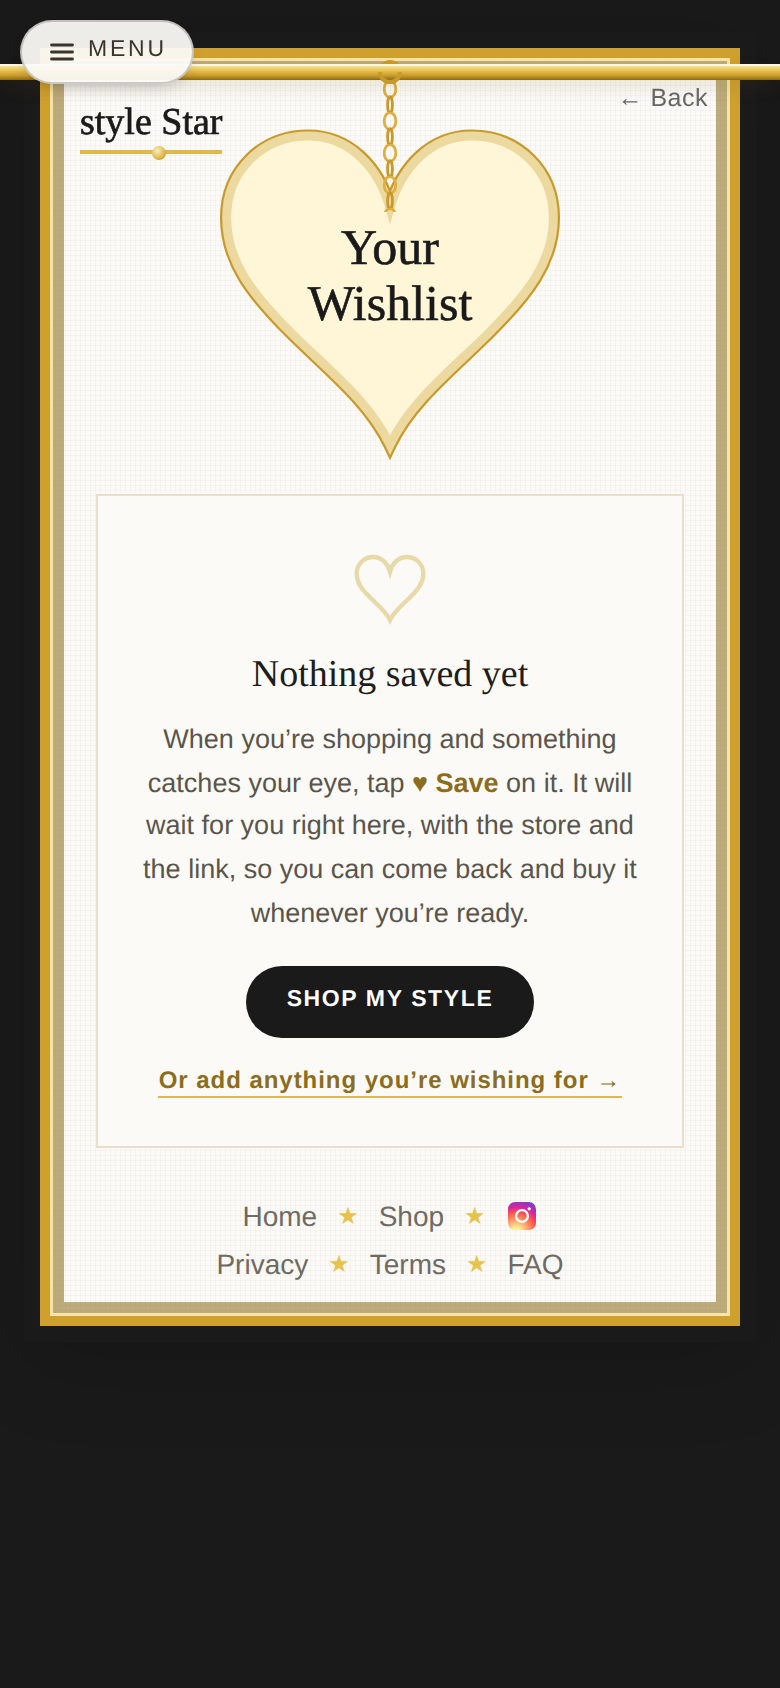
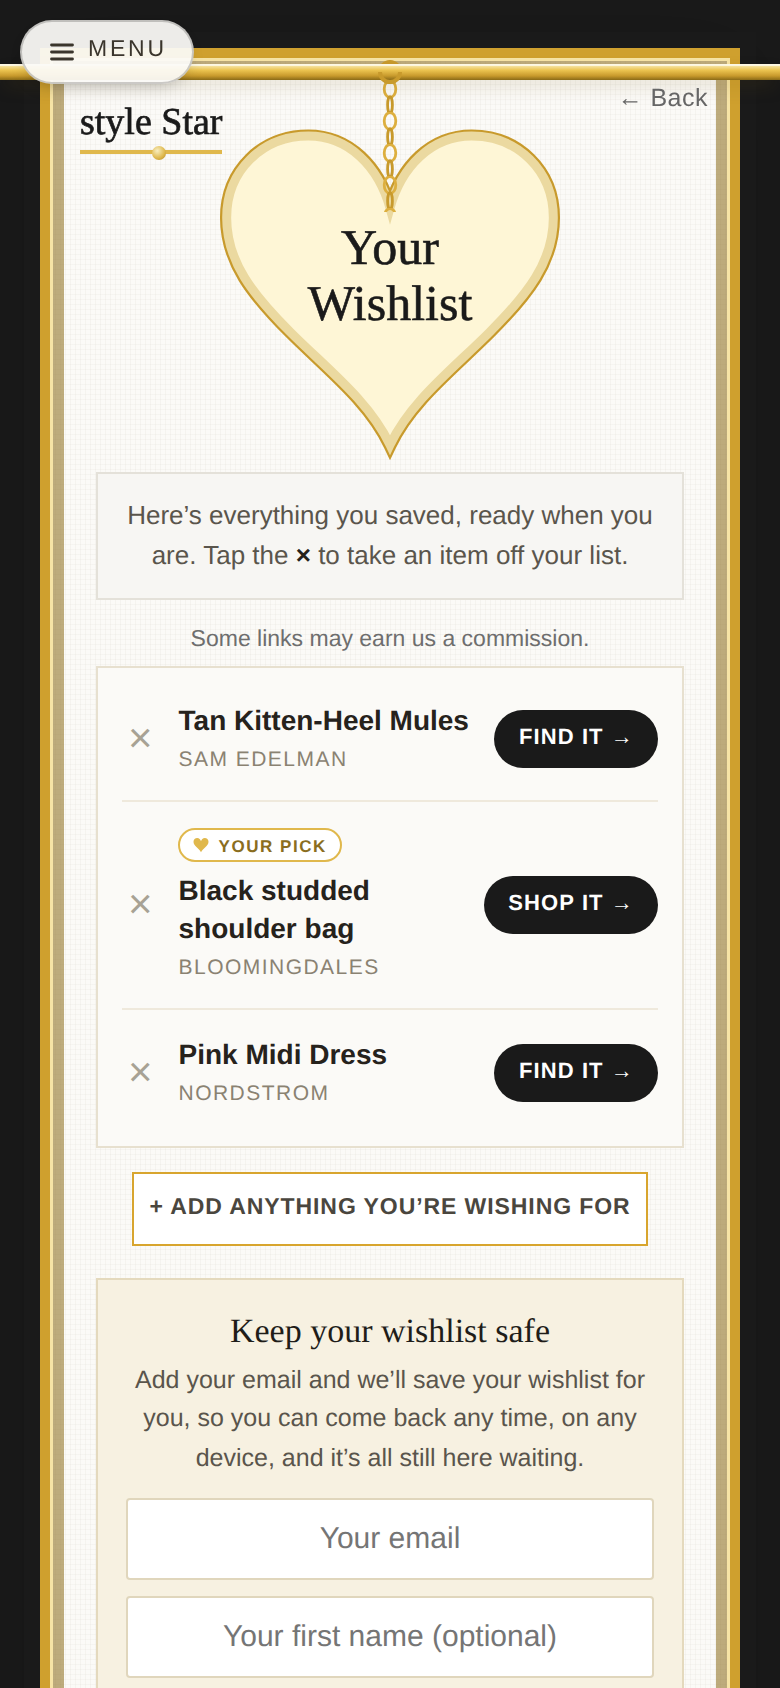
The rod rides the scroll with its hanging heart + My Story border thickened (#795)
Her catch on the viewport-fixed rod: it stayed put while the page scrolled,
detaching visually from the heart that hangs on it. "They need to slide
together." Fixed positioning still handles the WIDTH (the only edge-to-edge
that survives iOS page zoom); a passive scroll listener (_wlRodScroll) now
translates the rod by -scrollY so it moves exactly like page content. Raw
scrollY, no clamp, so iOS rubber-banding keeps rod and chain glued too.

My Story: the turquoise frame is slightly thicker, 4px -> 6px (her ask).

wladd grows 96 -> 102: rod-rides-the-scroll (moved by exactly scrollY, with a
reallyScrolled guard - an unscrollable page passes the delta check vacuously),
chain still meets the rod mid-scroll, rod restored at rest, both widths.
Verified: wladd 102/102, proof harness scratchpad/storyrodfinal.js extended
with the ride check + a properly seeded (scrollable) list.

Claude-Session: https://claude.ai/code/session_016L23CfkCzWBThRfBBj9SQc

Changed region(s): [[0.0308, 0.7085, 0.9538, 1.0], [0.1538, 0.2773, 0.8615, 0.6777], [0.1231, 0.3697, 0.1538, 0.4005]]

diff --git a/index.html b/index.html
@@ -106,7 +106,7 @@ input[type=range]::-moz-range-thumb{width:30px;height:30px;border-radius:50%;bac
    card — the white and pink inset rings are gone ("no white line") — and the
    page behind it bleeds her signature pink (html.story-velvet). The card
    scrolls with the words, so the frame can never sit on top of them. */
-.ss.story-mirror{position:relative;border-radius:0;border:4px solid #0FA6B6;background:#fff;
+.ss.story-mirror{position:relative;border-radius:0;border:6px solid #0FA6B6;background:#fff;
   box-shadow:0 8px 34px rgba(0,0,0,.16)}
 /* Shop your style: her personal boutique storefront — black store window with a
    slight beveled inner edge, on the Mall's brick wall (body.shop-brick) */
@@ -677,8 +677,9 @@ html.story-velvet,html.story-velvet body{background:#F49AC1}
 #s-wishlist{position:relative;padding-top:24px}
 /* The rod is FIXED to the viewport: left/right 0 of the screen itself, so it
    is edge-to-edge on any device and any zoom (vw units and overhang-clipping
-   both failed on her phone — this cannot). It sits where the screen top sat;
-   scrolling, the chain slides beneath it like feeding over the rail. */
+   both failed on her phone — this cannot). Fixed left/right handles WIDTH
+   only: _wlRodScroll translates it by -scrollY so it rides the page and the
+   hanging heart stays on its rod (her call — they slide together). */
 #s-wishlist .wl-rod{position:fixed;top:32px;left:0;right:0;height:8px;z-index:6;background:linear-gradient(180deg,#FBF1C2 0%,#EAC24E 40%,#C89A2C 74%,#8a6a17 100%);box-shadow:0 4px 9px -3px rgba(120,90,20,.5),inset 0 1px 0 rgba(255,255,255,.6)}
 #s-wishlist .wl-mast{position:absolute;top:20px;left:-8px;z-index:6;font:400 19px/1 'DM Serif Display',Georgia,serif;color:#1a1a1a;-webkit-text-stroke:.35px #1a1a1a;padding-bottom:7px;display:inline-block;cursor:pointer}
 #s-wishlist .wl-mast::after{content:"";position:absolute;left:0;right:0;bottom:1px;height:2px;background:#E0B84C}
@@ -7034,6 +7035,13 @@ function wlAddSubmit(){
   _wlToast();
   _wlSyncServer();
 }
+// The rod is position:fixed for its WIDTH (the only edge-to-edge that survives
+// iOS page zoom), but the heart HANGS on it, so it must ride the page scroll
+// with the chain (her call: "they need to slide together"). Translating by
+// -scrollY makes the fixed rod move exactly like page content. Raw scrollY,
+// no clamp, so iOS rubber-banding keeps rod and chain glued too.
+function _wlRodScroll(){var r=document.querySelector('#s-wishlist .wl-rod');if(r)r.style.transform='translateY('+(-window.scrollY)+'px)';}
+window.addEventListener('scroll',_wlRodScroll,{passive:true});
 function openWishlist(){
   var cur=document.querySelector('.scr.act');
   // Tapping "View" from the toast while already on the list must not make Back
@@ -7044,6 +7052,7 @@ function openWishlist(){
   show('s-wishlist');
   renderWishlist();
   try{window.scrollTo(0,0)}catch(e){}
+  _wlRodScroll();   // belt-and-braces: rod starts exactly on its rest position
 }
 function closeWishlist(){show(wishlistPrevScreen||'s-wb');}
 function wardrobeTab(which){

diff --git a/scratchpad/storyrodfinal.js b/scratchpad/storyrodfinal.js
@@ -30,8 +30,9 @@ const server = http.createServer((req, res) => {
     if (!localStorage.getItem('__seeded')) {
       localStorage.setItem('__seeded', '1');
       localStorage.setItem('ss_wardrobe', JSON.stringify({ pretap0: true, items: {}, wishlist: [
-        { id: 'tan~sandals', n: 'Tan Kitten-Heel Mules', s: 'Sam Edelman', q: 'tan kitten heel mules' },
-        { id: 'own~valentino', n: 'Black studded shoulder bag', s: 'Bloomingdales', own: true, url: 'https://www.bloomingdales.com/shop/product/valentino-bag?ID=123' }
+        { id: 'tan-kitten-heel-mules~sam-edelman', name: 'Tan Kitten-Heel Mules', store: 'Sam Edelman', search: 'tan kitten heel mules', ts: 1 },
+        { id: 'black-studded-shoulder-bag~bloomingdales', name: 'Black studded shoulder bag', store: 'Bloomingdales', search: '', ts: 2, own: true, url: 'https://www.bloomingdales.com/shop/product/valentino-bag?ID=123' },
+        { id: 'pink-midi-dress~nordstrom', name: 'Pink Midi Dress', store: 'Nordstrom', search: 'pink midi dress', ts: 3 }
       ] }));
     }
   });
@@ -80,6 +81,17 @@ const server = http.createServer((req, res) => {
   const ok = rod.rodLeft === 0 && rod.rodRight === 0 && rod.pos === 'fixed' && rod.chainTop <= rod.rodBottom + 3;
   console.log(ok ? 'ROD GEOMETRY OK (edge-to-edge, chain meets rod)' : 'ROD GEOMETRY FAIL');
   await page.screenshot({ path: path.join(__dirname, 'rodfix-top.png') });
+  // the rod rides the scroll with the chain (her call)
+  const ride = await page.evaluate(async () => {
+    const r = document.querySelector('#s-wishlist .wl-rod');
+    const c = document.querySelector('.wl-chain');
+    const b = r.getBoundingClientRect().bottom;
+    window.scrollTo(0, 300); await new Promise(x => setTimeout(x, 200));
+    const m = { rod: r.getBoundingClientRect().bottom, chain: c.getBoundingClientRect().top, y: scrollY };
+    return { moved: Math.abs((b - m.rod) - m.y) <= 1, meets: Math.abs(m.chain - m.rod) <= 3, scrolled: m.y >= 100 };
+  });
+  console.log('ROD RIDES SCROLL:', JSON.stringify(ride));
+  await page.screenshot({ path: path.join(__dirname, 'rodfix-scrolled.png') });
 
   await browser.close();
   server.close();

diff --git a/scratchpad/wladd.js b/scratchpad/wladd.js
@@ -347,6 +347,26 @@ for (const w of [390, 360]) {
   }));
   ok(w + ': velvet bleeds full-bleed black on this page', frame.velvet && frame.velvetClass);
   ok(w + ': the gold rail band frames the paper', frame.band);
+  // The rod RIDES the scroll (her call: the heart hangs on it, they slide
+  // together) — fixed position handles width only; _wlRodScroll moves it.
+  const ride = await page.evaluate(async () => {
+    const rod = document.querySelector('#s-wishlist .wl-rod');
+    const chain = document.querySelector('#s-wishlist .wl-chain');
+    const before = { rod: rod.getBoundingClientRect().bottom, chain: chain.getBoundingClientRect().top };
+    window.scrollTo(0, 300);
+    await new Promise(r => setTimeout(r, 150));
+    const mid = { rod: rod.getBoundingClientRect().bottom, chain: chain.getBoundingClientRect().top, y: window.scrollY };
+    window.scrollTo(0, 0);
+    await new Promise(r => setTimeout(r, 150));
+    const back = rod.getBoundingClientRect().bottom;
+    return { movedWithPage: Math.abs((before.rod - mid.rod) - mid.y) <= 1,
+             chainStillMeets: Math.abs(mid.chain - mid.rod) <= 3,
+             restored: Math.abs(back - before.rod) <= 1,
+             reallyScrolled: mid.y >= 100 };   // guard: a page too short to scroll passes vacuously
+  });
+  ok(w + ': rod rides the scroll exactly with the page', ride.movedWithPage && ride.reallyScrolled);
+  ok(w + ': chain still meets the rod mid-scroll', ride.chainStillMeets);
+  ok(w + ': rod back on its rest position at top', ride.restored);
   ok(w + ': zero JS errors', errs.length === 0, errs.join(' | ').slice(0, 200));
   await page.close();
 }

diff --git a/CLAUDE.md b/CLAUDE.md
@@ -59,15 +59,22 @@ the meter ran out today of all days.
      APP SHELL, not a decoration.** An attempted `html.story-velvet .ss{display:none}` blanked the
      ENTIRE app (Menu chip + footer live inside it) — nav 79/80 + menu 86/87 failed instantly.
      **Never hide or replace `.ss`; restyle it per-page via the `.ss.<page>-mirror` skins.**
-2. **The wishlist rod, FINAL FORM: `position:fixed;top:32px;left:0;right:0`** — pinned to the
-   viewport itself, so it is edge-to-edge on ANY device and ANY zoom. ▶ **Two prior attempts failed on
+2. **The wishlist rod, FINAL FORM: `position:fixed;top:32px;left:0;right:0` + `_wlRodScroll`** —
+   fixed to the viewport for its WIDTH (edge-to-edge on ANY device and ANY zoom), and a passive scroll
+   listener translates it by `-scrollY` so it RIDES the page. ▶ **Two prior width attempts failed on
    her phone:** 100vw (shrinks under iOS page zoom) and a ±100px overhang clipped by
    `overflow-x:hidden` (also inset on her device). **Lesson (5th time today): the only edge-to-edge
-   that survives iOS page zoom is viewport-fixed.** Scroll consequence, deliberate: the chain slides
-   beneath the fixed rod like feeding over a rail. The `overflow-x:hidden` on wl-velvet is removed
-   (nothing overhangs anymore); wladd's overflow census still exempts `.wl-rod` (fixed elements sit
-   outside the paper). Proofs: `scratchpad/storyfix-{top,mid}.png` (frame scrolls with words, no white
-   line), `rodfix-top.png` (insets 0/0). Verified: wladd 96 · nav 80 · menu 87 · e2e 29 green.
+   that survives iOS page zoom is viewport-fixed.** ▶ **And her immediate catch on the fixed rod: it
+   didn't move on scroll — "the heart is supposed to be hanging on it so they need to slide
+   together."** Hence the translate: fixed solves width, JS solves motion; raw scrollY (no clamp) so
+   iOS rubber-banding keeps rod and chain glued too. ⚠ Don't "simplify" back to pure CSS — every pure
+   CSS position fails one of her two requirements. wladd asserts the ride (moved-by-exactly-scrollY,
+   chain-still-meets mid-scroll, restored at top, WITH a reallyScrolled guard — an unscrollable page
+   passes the delta check vacuously, caught in the proof harness). The `overflow-x:hidden` on
+   wl-velvet is removed; wladd's overflow census still exempts `.wl-rod`. Proofs:
+   `scratchpad/storyfix-{top,mid}.png` (frame scrolls with words, no white line), `rodfix-top.png`
+   (insets 0/0). Verified: wladd 102 · nav 80 · menu 87 · e2e 29 green.
+   - **My Story border thickened 4px → 6px** (her same-message ask: "slightly thicker").
 3. Same evening micro-rounds, all hers: lead box restored to the full warm sentence with "item"
    wording, centered, tucked -10px under the heart; Back top:6px; **the wishing button is SQUARED and
    says "+ Add anything you're wishing for"** (both surfaces; tracking .04em/padding 8 hold one line at
